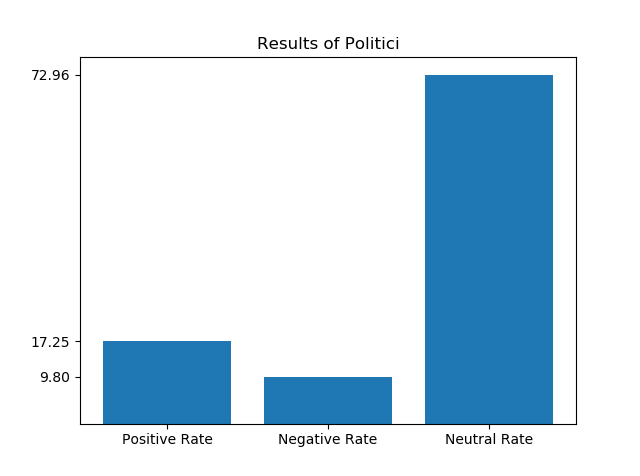
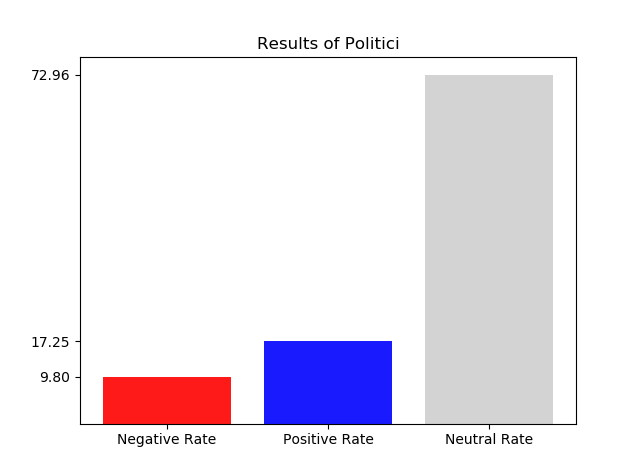
Update graph using color for each label.

Changed region(s): [[0.6562, 0.1471, 0.875, 0.9118], [0.4062, 0.7059, 0.625, 0.9412], [0.1562, 0.7059, 0.375, 0.9412]]

diff --git a/make_graph.py b/make_graph.py
@@ -63,7 +63,7 @@ def vader_graph(category):
             negative_rate = df["Negative Rate"]
             neutral_rate = df["Neutral Rate"]
             plt.title("Results of " + category)
-            rate = ["Positive Rate", "Negative Rate", "Neutral Rate"]
+            rate = ["Negative Rate", "Positive Rate", "Neutral Rate"]
             positives = 0
             negatives = 0
             neutrals = 0
@@ -76,9 +76,9 @@ def vader_graph(category):
             for neutral in neutral_rate:
                 neutrals += neutral
             neutrals = neutrals / len(neutral_rate)
-            results = [positives, negatives, neutrals]
+            results = [negatives, positives, neutrals]
             plt.yticks(results)
-            plt.bar(rate, results)
+            plt.bar(rate, results,color=['#ff1a1a','#1a1aff','lightgrey'])
             plt.show(block=False)
             plt.pause(2)
             plt.savefig("../" + category + "/" + category + "_vaderGraph.png")
@@ -110,7 +110,7 @@ def sonar_graph(category):
             neithers = neithers/len(neither_rate)
             results = [hates, offensives, neithers]
             plt.yticks(results)
-            plt.bar(rate, results)
+            plt.bar(rate, results,color=['#ff1a1a','#ff6600','lightgrey'])
             plt.show(block=False)
             plt.pause(2)
             plt.savefig("../"+category+"/"+category+"_sonarGraph.png")

diff --git a/script.py b/script.py
@@ -167,13 +167,13 @@ def create_score_csv(username, category):
 
 if __name__ == '__main__':
     # Fornisco l'username e categoria
-    username = "MarcusRashford"
+    username = "rickygervais"
     category = "Attori"
-    #get_replies(username, category)
-    #csv_cleaning(username, category)
-    #calculate_vader_score(username, category)
-    #calculate_hatespeech_score(username, category)
-    #create_score_csv(username, category)
+    get_replies(username, category)
+    csv_cleaning(username, category)
+    calculate_vader_score(username, category)
+    calculate_hatespeech_score(username, category)
+    create_score_csv(username, category)
     #gr.user_average(category)
     #gr.vader_graph(category)
-    gr.sonar_graph(category)
+    #gr.sonar_graph(category)
